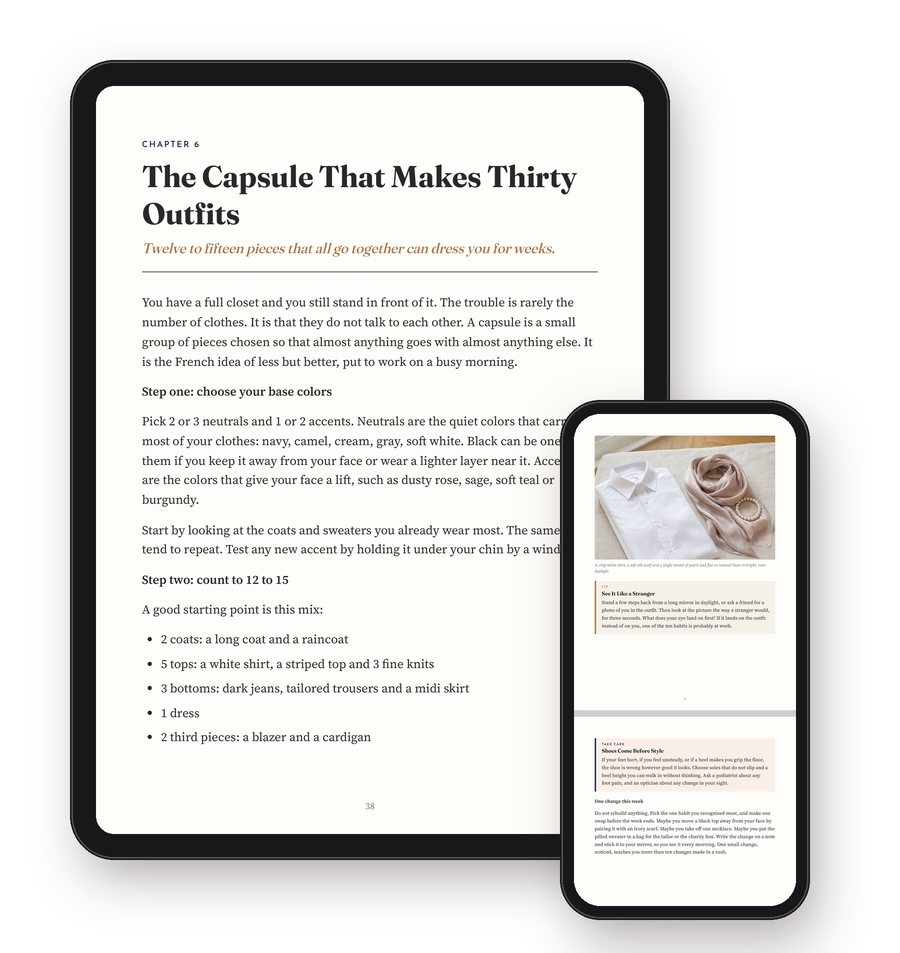
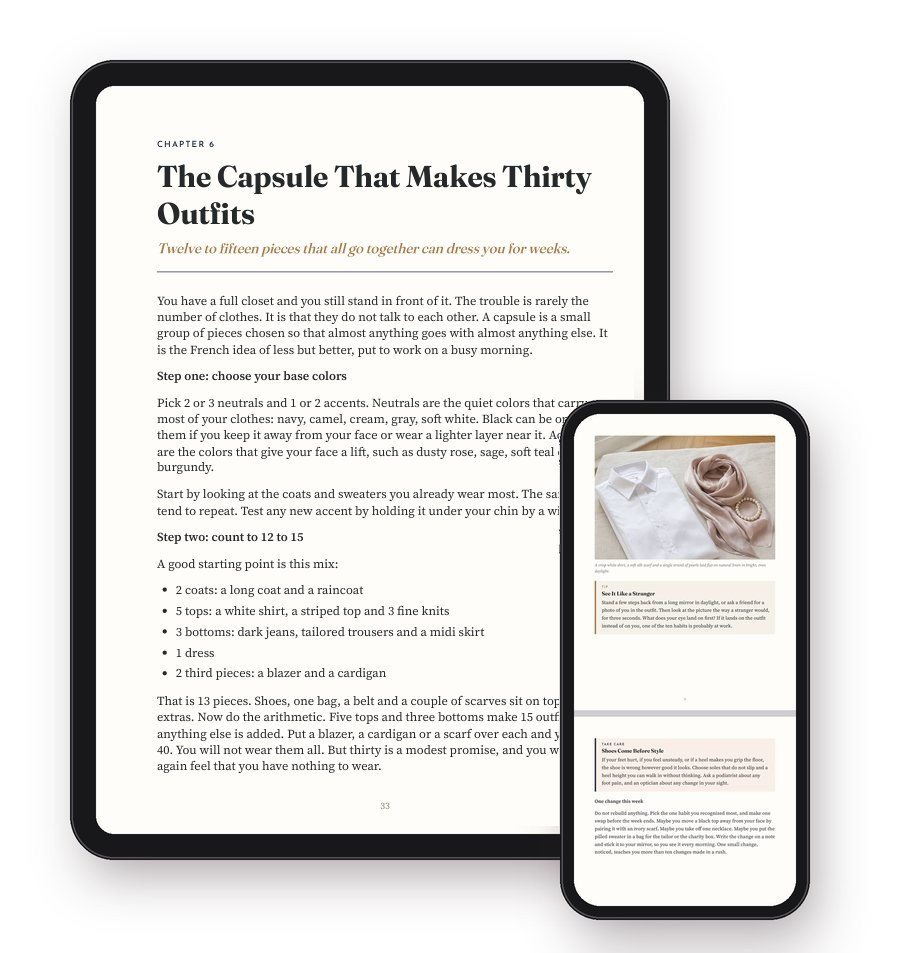
French Wardrobe look: editions image from the 73-page final, captions match pages 34 and 64

Changed region(s): [[0.1556, 0.3043, 0.6844, 0.8216], [0.1556, 0.1217, 0.6533, 0.2739]]

diff --git a/cloud-apps/homeguidepress/src/looks/paris.js b/cloud-apps/homeguidepress/src/looks/paris.js
@@ -13,10 +13,10 @@ const SLIDES = [
   [9, 'See it like a stranger', 'A photograph and a tip: step back from a long mirror and look for three seconds.'],
   [4, 'Contents', 'Twelve chapters in four parts, from the closet you have to the day you have.'],
   [16, 'The fit check', 'Ten checks in one long mirror, from the shoulder seam to the trouser hem.'],
-  [34, 'The capsule', 'Twelve to fifteen pieces that all go together can dress you for weeks.'],
+  [34, 'The capsule', 'A sample week of seven outfits, all from the same thirteen pieces.'],
   [40, 'Your colors', 'The color right under your chin, tested in daylight before you trust it.'],
   [60, 'Step by step', 'Scarf ties in numbered steps. Try each one once, then keep the two you like.'],
-  [64, 'Real days', 'A belted raincoat by the door, and the outfit laid out the night before.'],
+  [64, 'Real days', 'Outfit formulas for the market, lunch with friends and a family celebration.'],
   [73, 'Before I buy', 'The checklist to take shopping, and a last word from Claudine.'],
 ];
 
